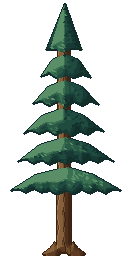
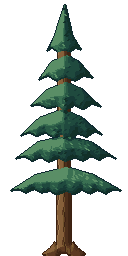
v3 forest round 3: pine_l tiers uneven, top tier with hem and snow (P3)
pine_l only (its own random stream: pine_s and spruce unchanged):
- the middle tiers' bottom row moves -3..+3 and their half width +-8 %
- the top tier gets shoulders and a jagged hem (at least 6 hem points)
- winter: snow along the top tier's outer slope (left 2 texels, right 1 on
  every other pair of rows); snow pieces under 4 texels: 0 (items_f.py)
Changed: the 9 pine_l files (3 seasons x 3 frames); the other 28 tree files
keep their md5. Winter pine_l snow share 13.2-13.5 %.

Claude-Session: https://claude.ai/code/session_01VbGyibjwGmxCJ2yW5ydLfW

diff --git a/tools/art_v3/gen_forest_flora_v3.py b/tools/art_v3/gen_forest_flora_v3.py
@@ -85,10 +85,15 @@ def conifer(kind, season, frame):
     prev = None
     shelves, tiers = [], []  # (round 3) the winter spruce's snow shelves
     sway = SWAY[frame]
+    rj = random.Random(seed * 31 + 5)  # round 3 (P3): pine_l's uneven tiers (own stream: pine_s / spruce unchanged)
     for i in range(n):
         f = (i + 1) / n
         yb = int(y_top + (yb_last - y_top) * (0.12 + 0.88 * f ** 1.1))
         hw = max(5, hw_bot * (0.18 + 0.82 * f))
+        uneven = kind == "pine_l"
+        if uneven and 0 < i < n - 1:
+            yb += rj.choice((-3, -2, 0, 2, 3))
+            hw *= 1 + rj.uniform(-0.08, 0.08)
         off = (rng.choice((-1, 0, 1)) if i else 0) * max(1, W // 64)
         skew = rng.uniform(-0.12, 0.12)
         cxi = cx + off + round(sway * (1 - i / (n - 1)))
@@ -96,16 +101,16 @@ def conifer(kind, season, frame):
         if gap and i:  # a gap above each tier (the trunk shows)
             yt = int(yt + (yb - yt) * gap)
         pts = [(cxi + skew * 10, yt)]
-        if i:
-            pts.append((cxi + hw * 0.5, yb - H * 0.055))
-        k = max(4, int(hw // 4))
+        if i or uneven:  # round 3: pine_l's top tier gets shoulders too (snow lies on them in winter)
+            pts.append((cxi + hw * 0.5, yb - H * (0.045 if i == 0 else 0.055)))
+        k = max(6 if uneven else 4, int(hw // 4))
         for j in range(k + 1):
             x = cxi + hw - 2 * hw * j / k
             dip = rng.choice((2, 3, 4)) if j % 2 == 0 else rng.choice((-1, 0))
             hang = droop * (1 - abs(x - cxi) / hw) * -2 + droop * 4 * (abs(x - cxi) / hw) ** 2
             pts.append((x, yb + dip + (1 - abs(x - cxi) / hw) * 3 + hang))
-        if i:
-            pts.append((cxi - hw * 0.55, yb - H * 0.055))
+        if i or uneven:
+            pts.append((cxi - hw * 0.55, yb - H * (0.045 if i == 0 else 0.055)))
         m = c.m_poly(pts)
         c.fill(m, "pine")
         c.shade_part(m, tones=(1, 2, 3, 4, 5, 6), global_mask=whole, gmix=0.4, light=(-0.7, -0.5, 0.5), norm=True)
@@ -131,6 +136,8 @@ def conifer(kind, season, frame):
     if season == "winter":
         if kind == "spruce":
             spruce_shelves(c, shelves, tiers, seed)
+        if kind == "pine_l":
+            top_tier_snow(c, tiers, seed)
         FL.snow_caps(c, ("pine",), depth=(2, 5), seed=seed)
         FL.drop_small_snow(c, 4, back="pine")
     return FL.finish(c, loose=())
@@ -160,6 +167,33 @@ def spruce_shelves(c, shelves, tiers, seed):
                 continue  # 1 row, or 2 on a third of the columns
             c.mat[y, x] = ks
             c.tone[y, x] = (6 if top else 5) if r < 0 else (5 if top else 4)
+
+
+def top_tier_snow(c, tiers, seed):
+    """Round 3 (P3): pine_l's top tier is a steep spire, so snow_caps (top runs 2+ wide) leaves it bare.
+    Snow clings along its outer slope instead: on the lit left the outermost 2 texels of each row, on the
+    shaded right 1 texel on every other pair of rows, from 30 % to 90 % of the tier's visible height.
+    Pieces under 4 texels go back to pine (drop_small_snow)."""
+    kp, ks = c.mid("pine"), c.mid("snow")
+    later = np.zeros_like(tiers[0])
+    for m in tiers[1:]:
+        later |= m
+    vis = tiers[0] & ~later & (c.mat == kp)
+    ys = np.nonzero(vis.any(axis=1))[0]
+    if not len(ys):
+        return
+    y0, y1 = ys.min(), ys.max()
+    for y in range(y0, y1 + 1):
+        fy = (y - y0) / max(1, y1 - y0)
+        xs = np.nonzero(vis[y])[0]
+        if not (0.3 <= fy <= 0.9) or len(xs) < 4:
+            continue
+        for x in xs[:2]:
+            c.mat[y, x] = ks
+            c.tone[y, x] = 6 if x == xs[0] else 5
+        if (y // 2) % 2 == 0:
+            c.mat[y, xs[-1]] = ks
+            c.tone[y, xs[-1]] = 4
 
 
 # ------------------------------------------------------------------ birch (round 2: its own form)
